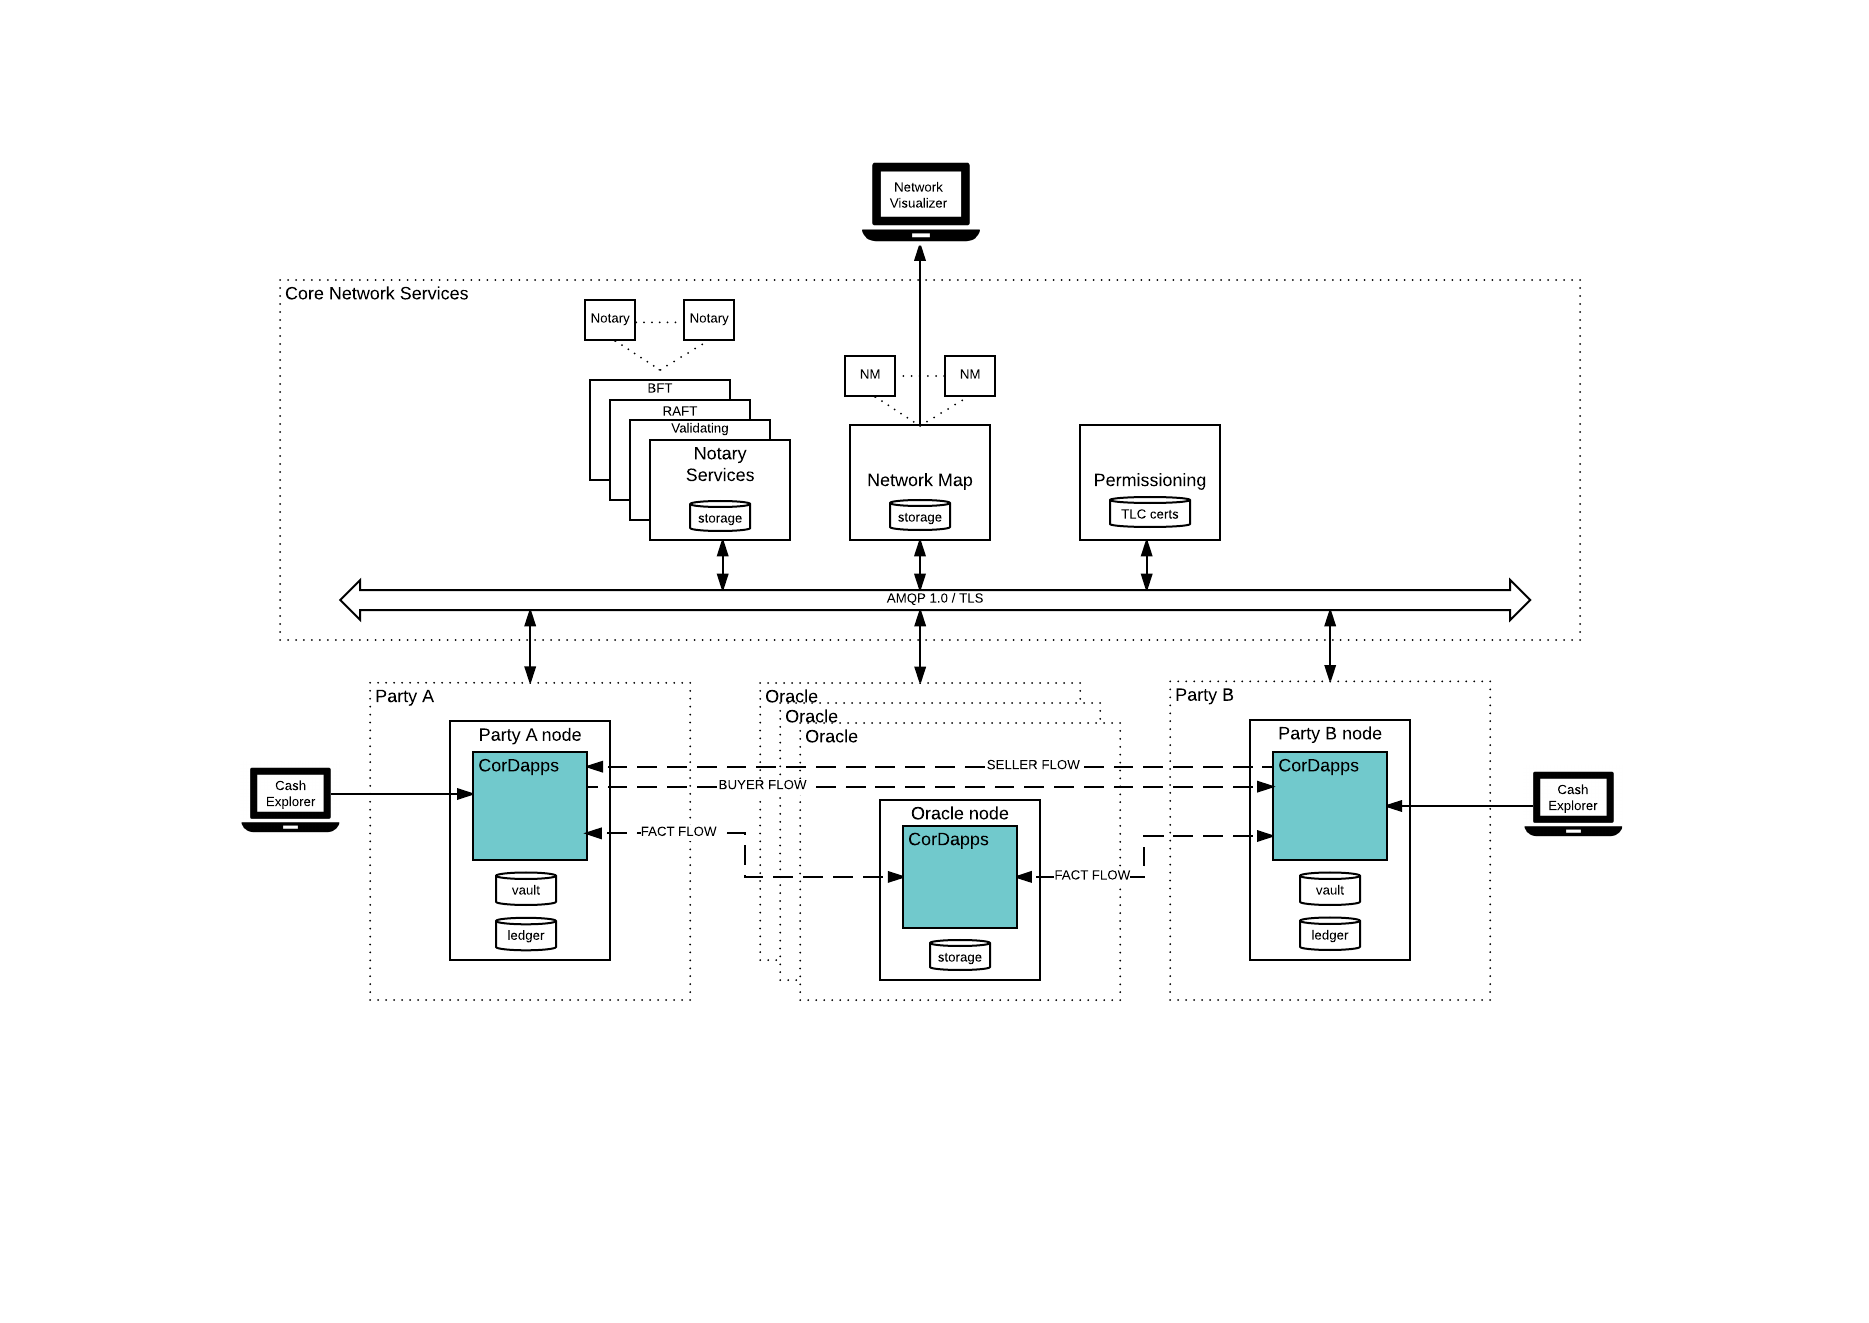
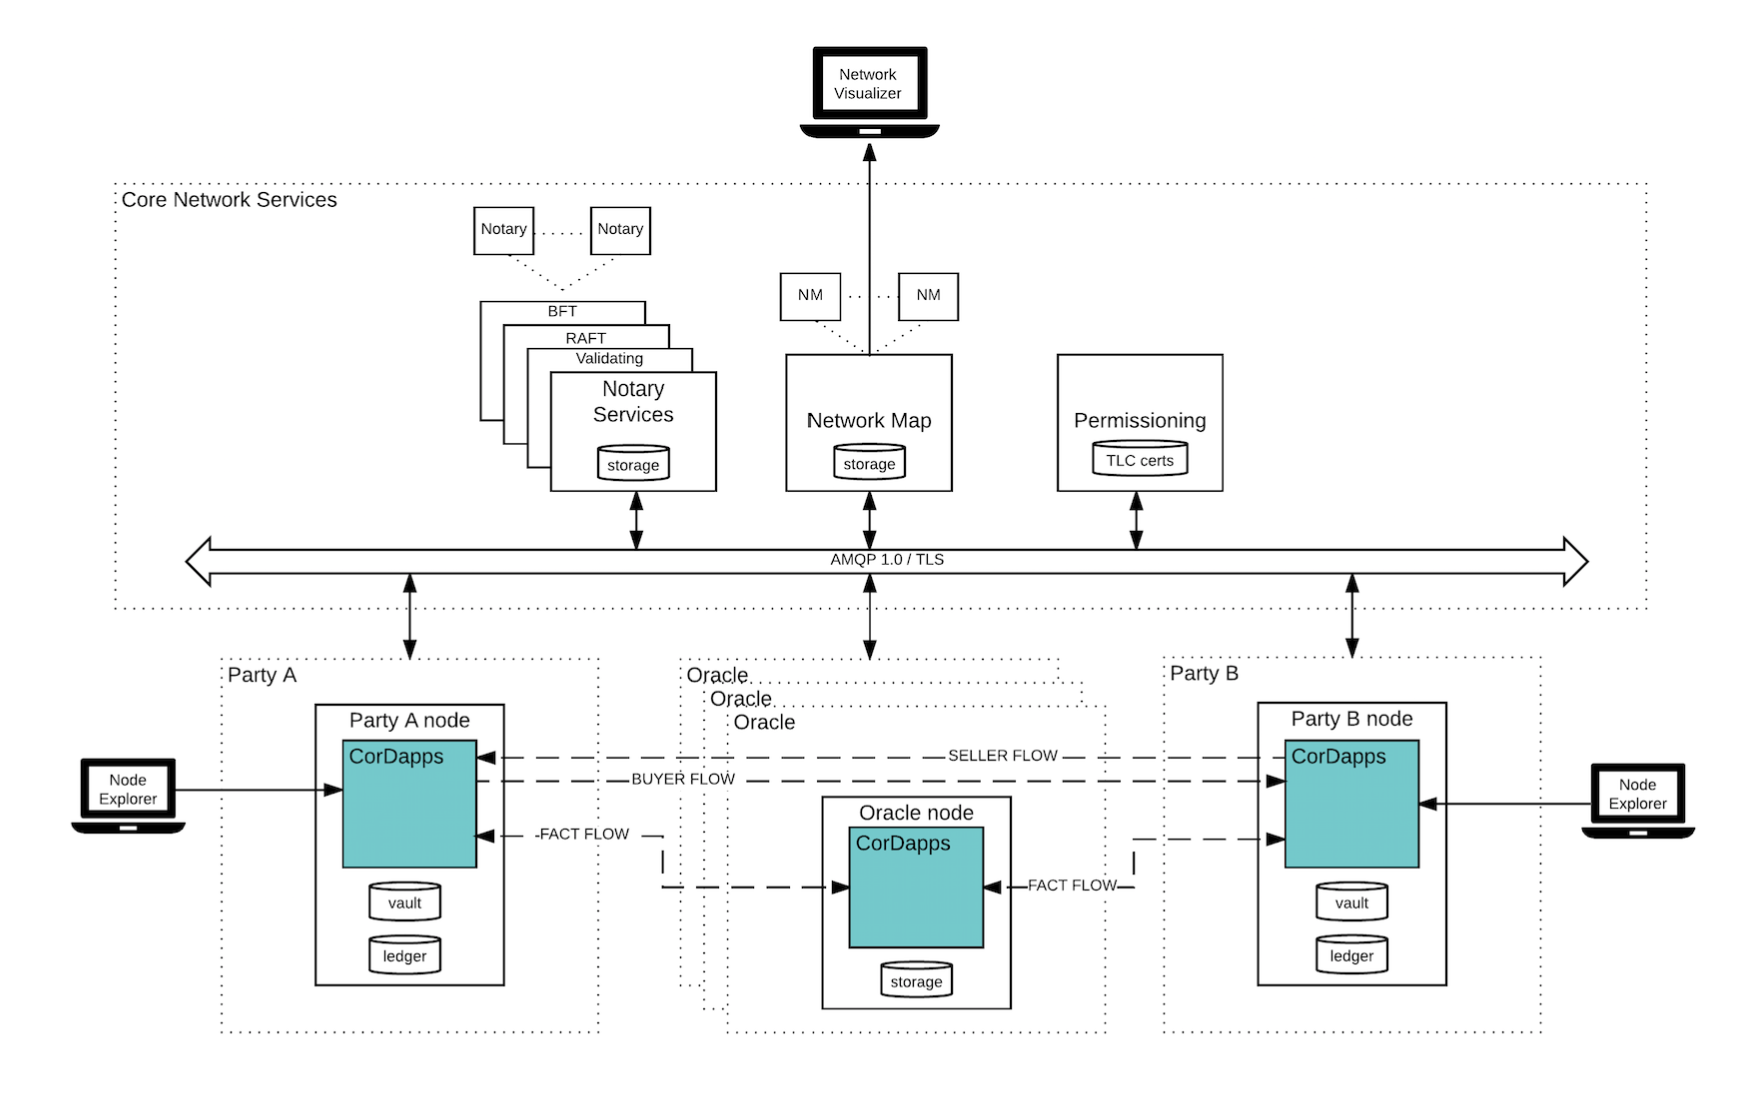
Reformatted diagrams and incorporated feedback from PR reviewers.

diff --git a/docs/source/key-concepts-data-model.rst b/docs/source/key-concepts-data-model.rst
@@ -3,32 +3,38 @@ Data model
 
 This article covers the data model: how *states*, *transactions* and *contract code* interact with each other and
 how they are represented in software. It doesn't attempt to give detailed design rationales or information on future
-design elements: please refer to the White Papers for background information.
+design elements: please refer to the white papers for background information.
 
 Overview
 --------
 Corda uses the so-called "UTXO set" model (unspent transaction output). In this model, the database
-does not track accounts or balances. An entry is either spent or not spent but it cannot be changed. In this model the database is a set of immutable rows keyed
-by (hash:output index). Transactions define outputs that append new rows and inputs which consume existing rows.
+does not track accounts or balances. An entry is either spent or not spent but it cannot be changed. In this model the
+database is a set of immutable rows keyed by (hash:output index). Transactions define outputs that append new rows and
+inputs which consume existing rows.
 
 Base characteristics of this model are:
 
 * Immutable states are consumed and created by transactions
 * Transactions can have multiple inputs and outputs
-* A contract is pure function; contracts do not have storage or the ability to interact with anything. Given the same transaction, a contract’s “verify” function always yields exactly the same result.
+* A contract is pure function; contracts do not have storage or the ability to interact with anything. Given the same
+  transaction, a contract’s “verify” function always yields exactly the same result.
 
 Corda further enhances this with additional features:
 
 * Corda states can include arbitrary typed data.
 * Transactions invoke not only input contracts but also the contracts of the outputs.
-* Corda uses the term “contract” to refer to a bundle of business logic that may handle various different tasks, beyond transaction verification.
+* Corda uses the term “contract” to refer to a bundle of business logic that may handle various different tasks,
+  beyond transaction verification.
 * Corda contracts are Turing-complete and can be written in any ordinary programming language that targets the JVM.
 * Corda allows arbitrarily-precise time-bounds to be specified in transactions (which must be attested to by a trusted timestamper)
 * Corda's primary consensus implementations use block-free conflict resolution algorithms.
-* Corda does not order transactions using a block chain and by implication does not use miners or proof-of-work. Instead each state points to a notary, which is a service that guarantees it will sign a transaction only if all the input states are un-consumed.
+* Corda does not order transactions using a block chain and by implication does not use miners or proof-of-work.
+  Instead each state points to a notary, which is a service that guarantees it will sign a transaction only if all the
+  input states are un-consumed.
 
 In our model although the ledger is shared, it is not always the case that transactions and ledger entries are globally visible.
-In cases where a set of transactions stays within a small subgroup of users it should be possible to keep the relevant data purely within that group.
+In cases where a set of transactions stays within a small subgroup of users it should be possible to keep the relevant
+data purely within that group.
 
 Corda provides three main tools to achieve global distributed consensus:
 
@@ -42,7 +48,7 @@ are created and destroyed by digitally signed **transactions**. Each transaction
 consume/destroy, these are called **inputs**, and contains a set of new states that it will create, these are called
 **outputs**.
 
-Comparisons of the Corda data model with Bitcoin and Ethereum can be found in the White Papers.
+Comparisons of the Corda data model with Bitcoin and Ethereum can be found in the white papers.
 
 States
 ------
@@ -65,7 +71,7 @@ States contain arbitrary data, but they always contain at minimum a hash of the 
 Contract code (or just "contracts" in the rest of this document) are globally shared pieces of business logic.
 
 .. note:: In the current code dynamic loading of contracts is not implemented, so states currently point at
-   statically created object instances. This will change in the near future.
+statically created object instances. This will change in the near future.
 
 Contracts
 ---------
@@ -78,11 +84,13 @@ Contracts define part of the business logic of the ledger.
 
 Contracts define a **verify function**, which is a pure function given the entire transaction as input. To be considered
 valid, the transaction must be **accepted** by the verify function of every contract pointed to by the input and output
-states. Contracts do not have storage or the ability to interact with anything. Given the same transaction, a contract’s “verify” function always yields exactly the same result.
+states. Contracts do not have storage or the ability to interact with anything. Given the same transaction, a contract’s
+“verify” function always yields exactly the same result.
 
 .. note:: Future contract will be mobile: nodes will download and run contracts inside a sandbox without any review in some deployments,
           although we envisage the use of signed code for Corda deployments in the regulated sphere. Corda will use an augmented
-          JVM custom sandbox that is radically more restrictive than the ordinary JVM sandbox, and it enforces not only security requirements but also deterministic execution.
+          JVM custom sandbox that is radically more restrictive than the ordinary JVM sandbox, and it enforces not only
+          security requirements but also deterministic execution.
 
 Transactions
 ------------
@@ -110,8 +118,10 @@ Thus, any given actor in a Corda system sees only a subset of the overall data m
 The following diagram illustrates the elements contained within a transaction:
 
 .. image:: resources/transaction.png
+:scale: 80%
+    :align: center
 
-Beyond inputs and outputs, transactions may also contain **commands**, small data packets that
+    Beyond inputs and outputs, transactions may also contain **commands**, small data packets that
 the platform does not interpret itself but which can parameterise execution of the contracts. They can be thought of as
 arguments to the verify function. Each command has a list of **public keys** associated with it. The platform ensures
 that the transaction is signed by every key listed in the commands before the contracts start to execute. Thus, a verify
@@ -151,14 +161,14 @@ controls it. Whilst a single transaction may only consume states if they are all
 a special type of transaction is provided that moves a state (or set of states) from one notary to another.
 
 .. note:: Currently the platform code will not re-assign states to a single notary as needed for you, in case of
-   a mismatch. This is a future planned feature.
+a mismatch. This is a future planned feature.
 
 Transaction Validation
 ^^^^^^^^^^^^^^^^^^^^^^
 When a transaction is presented to a node as part of a flow it may need to be checked. Checking transaction validity is
-the responsibility of the **ResolveTransactions** flow. This flow performs a breadth-first search over the transaction graph,
+the responsibility of the ``ResolveTransactions`` flow. This flow performs a breadth-first search over the transaction graph,
 downloading any missing transactions into local storage and validating them. The search bottoms out at the issuance transactions.
 A transaction is not considered valid if any of its transitive dependencies are invalid.
 
 .. note:: Non-validating notaries assume transaction validity and do not request transaction data or their dependencies
-          beyond the list of states consumed.
+beyond the list of states consumed.

diff --git a/docs/source/key-concepts-core-types.rst b/docs/source/key-concepts-core-types.rst
@@ -79,8 +79,8 @@ contract type in the library):
 In a unit test, you would typically use a freshly created ``MockServices`` object, or more realistically, you would
 write your tests using the :doc:`domain specific language for writing tests <tutorial-test-dsl>`.
 
-Party and PublicKey
--------------------
+Party and CompositeKey
+----------------------
 
 Entities using the network are called *parties*. Parties can sign structures using keys, and a party may have many
 keys under their control.
@@ -90,7 +90,7 @@ chain of custody it is important you can convince yourself of the transaction's 
 you don't learn anything about who was involved in that transaction. In these cases a public key may be present
 without any identifying information about who owns it.
 
-Identities of parties involved in signing a transaction can be represented simply by a ``PublicKey``, or by further
+Identities of parties involved in signing a transaction can be represented simply by a ``CompositeKey``, or by further
 information (such as name) using the ``Party`` class. An ``AuthenticatedObject`` represents an object (like a command)
 that has been signed by a set of parties.
 
@@ -112,12 +112,14 @@ node specifies a *threshold* of how many child signatures it requires.
 An illustration of an *"either Alice and Bob, or Charlie"* composite key:
 
 .. image:: resources/composite-key.png
+      :align: center
       :width: 300px
 
 To allow further flexibility, each child node can have an associated custom *weight* (the default is 1). The *threshold*
 then specifies the minimum total weight of all children required. Our previous example can also be expressed as:
 
 .. image:: resources/composite-key-2.png
+      :align: center
       :width: 300px
 
 Verification

diff --git a/docs/source/key-concepts-flow-framework.rst b/docs/source/key-concepts-flow-framework.rst
@@ -27,7 +27,7 @@ Note the following:
 
 * there are 3 participants in this workflow including the notary
 * the Buyer and Seller flows are custom written by developers and deployed within a CorDapp
-* the custom written flows invoke both financial library flows (``TwoPartyTradeFlow``) and core library flows (``resolveTransactions``, ``notaryFlow``)
+* the custom written flows invoke both financial library flows (``TwoPartyTradeFlow``) and core library flows (``ResolveTransactionsFlow``, ``NotaryFlow``)
 * each side of the flow illustrates the stage of execution with a progress tracker notification
 * activities within a flow directly or indirectly interact with its node's ledger (eg. to record a signed, notarised transaction) and vault (eg. to perform a spend of some fungible asset)
 * flows interact across parties using send, receive and sendReceive messaging semantics (by implementing the ``FlowLogic`` interface)

diff --git a/docs/source/key-concepts-consensus-notaries.rst b/docs/source/key-concepts-consensus-notaries.rst
@@ -24,7 +24,7 @@ Notaries are expected to be composed of multiple mutually distrusting parties wh
 Notaries are identified by and sign with composite public keys. Notaries accept transactions submitted to them for processing
 and either return a signature over the transaction, or a rejection error that states that a double spend has occurred.
 The presence of a notary signature from the state’s chosen notary indicates transaction finality. An app developer triggers
-notarisation by invoking the **Finality flow** on the transaction once all other necessary signatures have been gathered.
+notarisation by invoking the ``FinalityFlow`` on the transaction once all other necessary signatures have been gathered.
 Once the finality flow returns successfully, the transaction can be considered committed to the database.
 
 Consensus is described in detail here :doc:`consensus`

diff --git a/docs/source/key-concepts-security-model.rst b/docs/source/key-concepts-security-model.rst
@@ -34,12 +34,6 @@ Security is prevalent at the following levels:
 .. warning:: API level authorisation (RPC, Web) is currently based on permission groups applied to flow execution.
     This is subject to design review with views to selecting a proven, mature entitlements solution.
 
-* Encryption
-
-* Integrity
-
-* Non-repudiation
-
 * Privacy techniques include the following:
 
     * Partial data visibility: transactions are not globally broadcast as in many other systems.

diff --git a/docs/source/key-concepts-vault.rst b/docs/source/key-concepts-vault.rst
@@ -1,7 +1,7 @@
 Vault
 =====
 
-The vault contains data extracted from the ledger that is considered relevant to the node’s owner, stored in a secured form
+The vault contains data extracted from the ledger that is considered relevant to the node’s owner, stored in a relational model
 that can be easily queried and worked with. The vault supports the management of data in both authoritative ("on-ledger") form
 and, where appropriate, shadow ("off-ledger") form:
 
